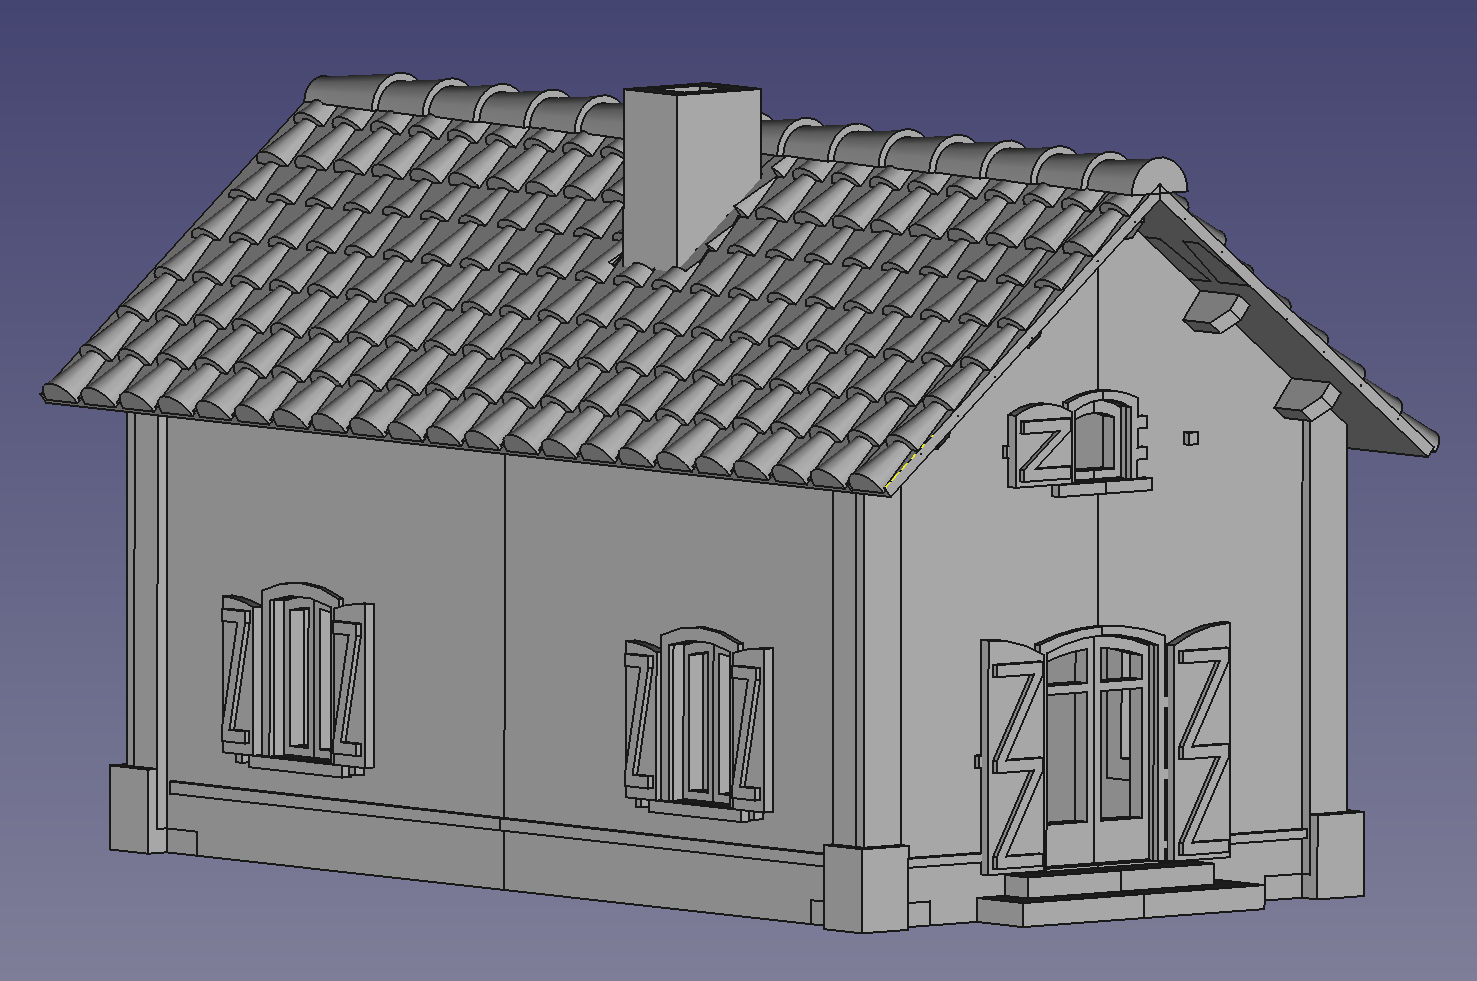
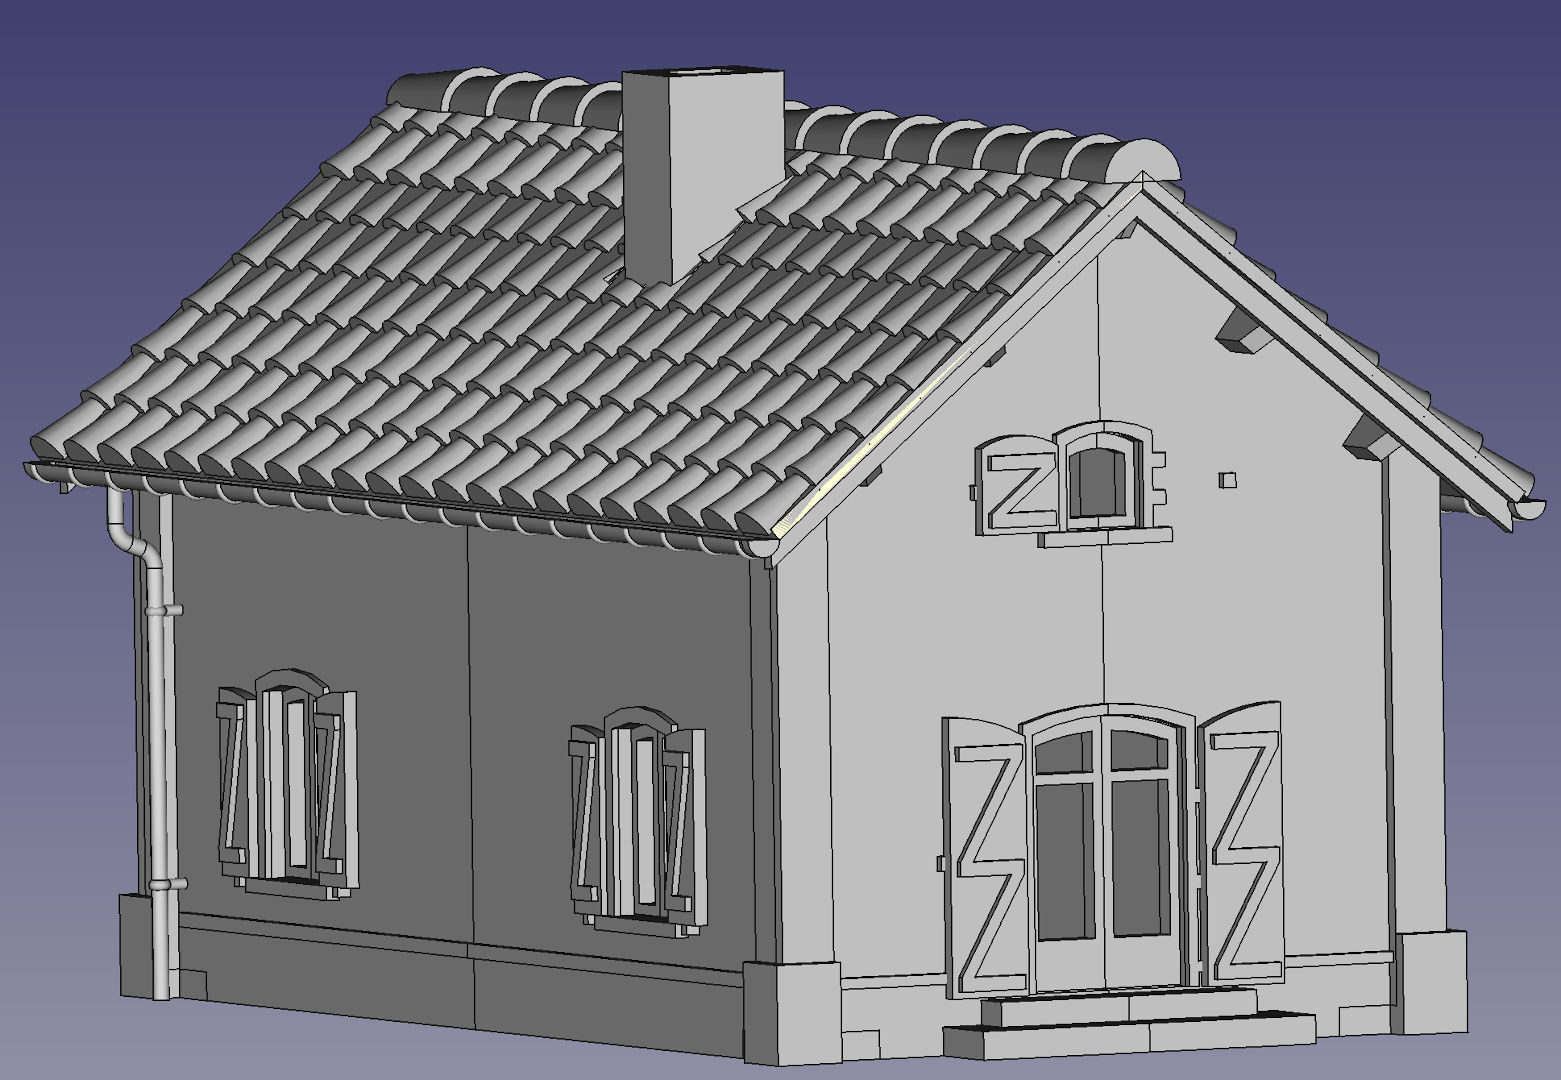
Maj explication et maj aperçu global avant nouveau toit

diff --git a/README.md b/README.md
@@ -1,7 +1,11 @@
 # FreeCad-Modelisme-Maison-Garde-Barriere
 Modélisation paramétrique d'une maison garde barrières optimisée en vue d'une impression 3D par éléments
 
-Version 2, optimisée pour une impression sur Eleego Mars P
+Il y a maintenant la branche V2 et sa sous branche Originale
+
+- Branche V2, optimisée pour une impression sur Eleego Mars P, la toiture est avec des tuiles recentes qui ne sont pas à la vraie echelle
+- Sous branche de V2 nommée Originale qui devrait être la version la plus fidèle aux maisons d'origine notament tuiles mécanique (plate) de l'époque
+
 
 But complémentaire du projet :
 ==============================
@@ -20,29 +24,31 @@ Le dépôt contient :
   
 Evolution souhaitée, constituer une base de référence de tous les objets 3D réalisés dans le cadre de la construction d'un réseau ferroviaire.
 
-Dans cette version la maison est constituée de 14 pièces différentes dont certaines sont à imprimer en double voir quadruple exemplaire (Face côté)
+Dans cette version la maison est constituée de 17 pièces différentes dont certaines sont à imprimer en double voir quadruple exemplaire (Face côté)
 
 Il y a maintenant le double de pièce par rapport à la version 1, car je pense qu'il devrait être plus facile de peindre ainsi les pièces séparéments pour les assembler ensuite. 
 
-Il y a aussi un fichier Assemblage_Complet qui permet d'imprimer en théorie la maison en une seule fois, je dis en théoris car je ne l'ai pas encore imprimé. 
+Il y a aussi un fichier Assemblage_Complet qui permet d'imprimer en théorie la maison en une seule fois, je dis en théorie car non réelement imprimée. 
 
 Nomenclature des pièces :
 =========================
 
-- 01 Face Avant x2
+- 01 Face avant x2
 - 02 Volet porte fenêtre gauche x2
 - 03 Volet porte fenêtre droit x2
 - 04 Volet fenestrou x2
 - 05 Coin bas x4
 - 06 Coin gauche x2 
 - 07 Coin droit x2
-- 09 Face Côté x2
+- 09 Face côté x2
 - 10 Volet côté droit x4
 - 11 Volet côté gauche x4
 - 12 Toit complet
+- 13 Dale pluie x2 
 - 14 Porte fenêtre x2
-- 15 fenêtre x4
+- 15 Fenêtre x4
 - 16 Fenestrou x2  
+- 17 Descente pluie x2
 
 Ce qu'il reste à faire:
 =======================
